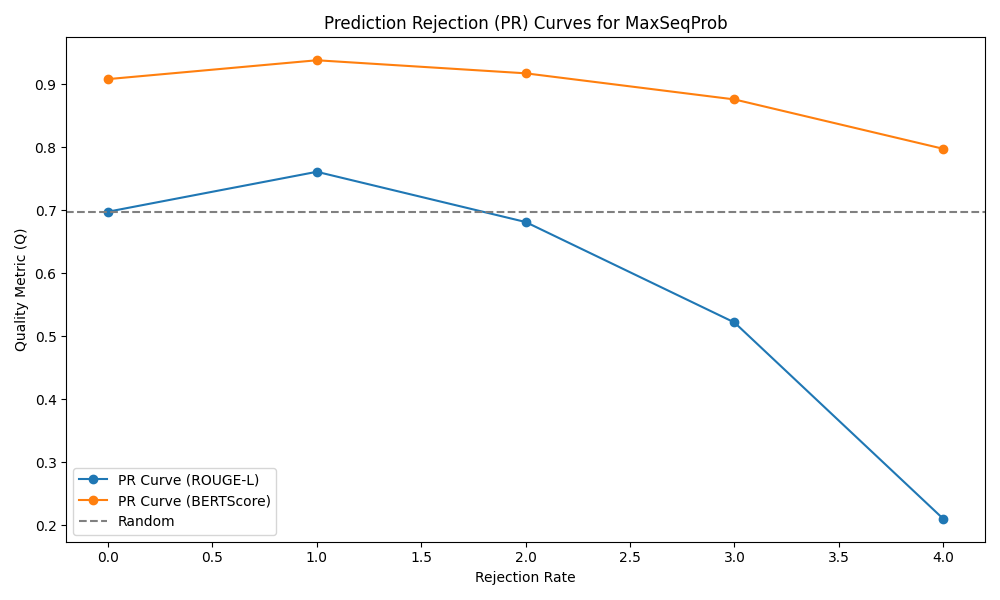
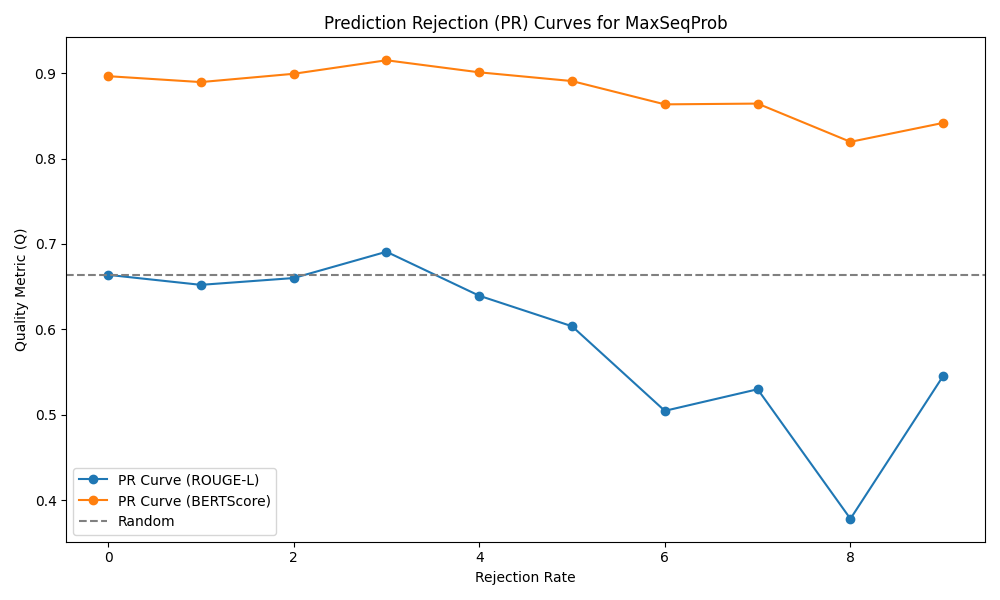
add more sentences to dataset

diff --git a/main.py b/main.py
@@ -1,3 +1,4 @@
+print("Loading libraries...")
 import torch
 import numpy as np
 import pandas as pd
@@ -10,10 +11,12 @@ from UE_methods import *
 
 # Setup 
 device = "cuda" if torch.cuda.is_available() else "cpu"
+print("Using device: ", device)
 model_name = "facebook/mbart-large-50-many-to-many-mmt"
 tokenizer = AutoTokenizer.from_pretrained(model_name)
 model = AutoModelForSeq2SeqLM.from_pretrained(model_name).to(device)
 model.eval()
+print("Model loaded...")
 
 src_lang = "en_XX"
 tgt_lang = "nl_XX"
@@ -26,7 +29,12 @@ datasets = {
         ("It is raining today.", "Het regent vandaag."),
         ("Will you invite me to your brother-in-law's birthday?.", "Nodig je mij uit naar je zwager's verjaardag?."),
         ("It is raining cats and dogs.", "Het regent pijpestelen."),
-        ("I disagree.", "Ik ben het er niet mee eens.")
+        ("I disagree.", "Ik ben het er niet mee eens."),
+        ("She missed the train again.", "Ze heeft de trein weer gemist."),
+        ("They are planning to move abroad next year.","Ze zijn van plan om volgend jaar naar het buitenland te verhuizen."),
+        ("Can you pass me the salt, please?","Kun je me alsjeblieft het zout aangeven?"),
+        ("We need to come up with a better solution.", "We moeten met een betere oplossing komen."),
+        ("I have been working on this all day.","Ik ben hier de hele dag mee bezig geweest.")
     ]} 
 
 ue_methods = {
@@ -55,7 +63,7 @@ for task_name, samples in datasets.items():
             )
             tokens = output.sequences[0]
             generated_text = tokenizer.decode(tokens, skip_special_tokens=True)
-            #print("\n generated text ", generated_text)
+            print("\n Generated text: ", generated_text)
             logits = torch.stack(output.scores).squeeze(1)
             logits = torch.clamp(logits, min=-1e9, max=1e9)
 

diff --git a/plotting.py b/plotting.py
@@ -3,6 +3,7 @@ import seaborn as sns
 from sklearn.metrics import auc
 import pandas as pd
 
+# plot the heatmap of UE scores
 def ue_heatmap(df, rows):
     # Pivot the DataFrame to prepare for heatmap
     heatmap_data = df.pivot_table(
@@ -99,28 +100,27 @@ def plot_PRR(df_sorted, title):
 
     return prr_rouge, prr_bert
 
+# create a table of UE scores
 def ue_grouped_table(df):
     grouped_df = df.groupby('Method').apply(lambda x: x).reset_index(drop=True)
     grouped_df = grouped_df.round(3)
     grouped_df.to_csv("figures/ue_scores_table.csv", index=False)
 
+#separate and sort the dataframe by UE method
 def separate_df(df):
     grouped_df = df.groupby('Method').apply(lambda x: x).reset_index(drop=True)
-    df1 = grouped_df[:5]
-    df2 = grouped_df[5:10]
-    df3 = grouped_df[10:]
+    df1 = grouped_df[:10]
+    df2 = grouped_df[10:20]
+    df3 = grouped_df[20:]
     df1 = df1.sort_values(by="UE Score", ascending=True)
     df2 = df2.sort_values(by="UE Score", ascending=True)
     df3 = df3.sort_values(by="UE Score", ascending=True)
-
     return df1, df2, df3
 
-
+#create a table of PRR scores
 def PRR_table(prr_rouge,prr_rouge2,prr_rouge3,prr_bert, prr_bert2, prr_bert3):
-    data = {
-    "ROUGE-L": [prr_rouge, prr_rouge2, prr_rouge3],
-    "BERTScore": [prr_bert, prr_bert2, prr_bert3],
-    }
+    data = {"ROUGE-L": [prr_rouge, prr_rouge2, prr_rouge3],
+    "BERTScore": [prr_bert, prr_bert2, prr_bert3]}
     index = ["MaxSeqProb", "MeanEntropy", "NormEntropy"]
     df = pd.DataFrame(data, index=index)
     df.to_csv("figures/PRR_table.csv")
